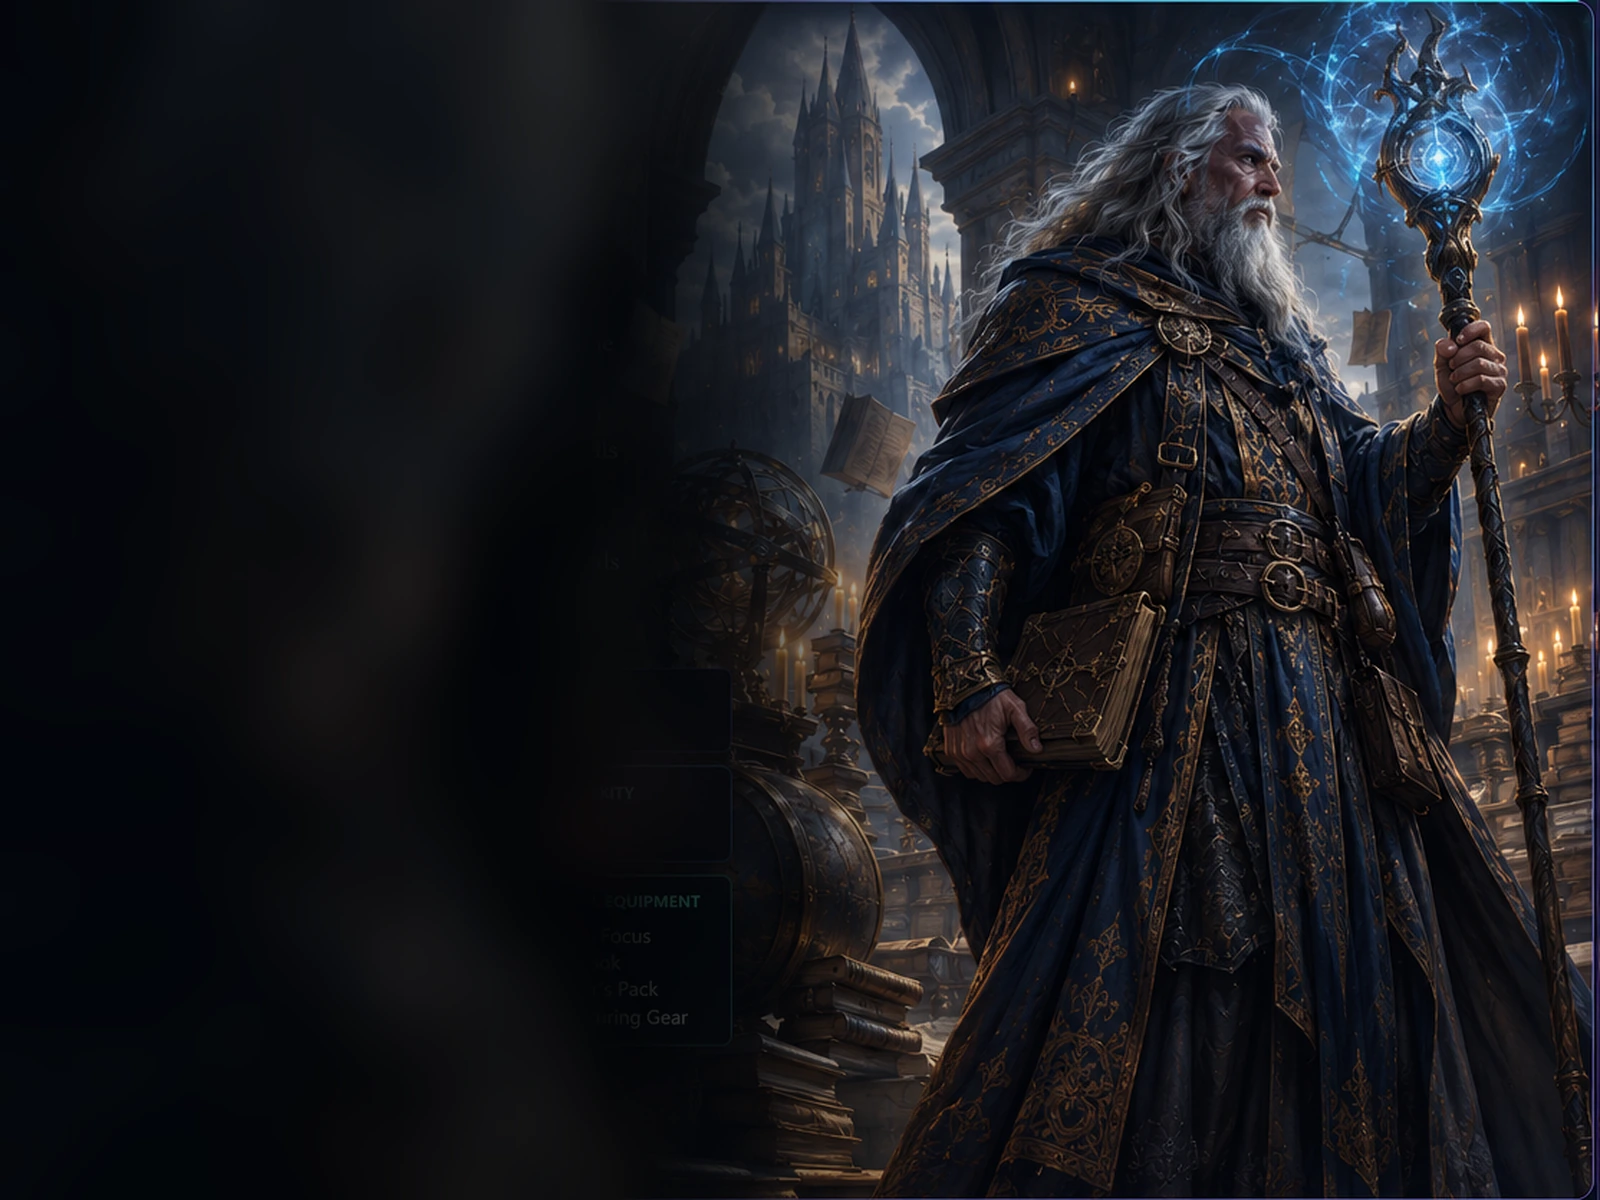
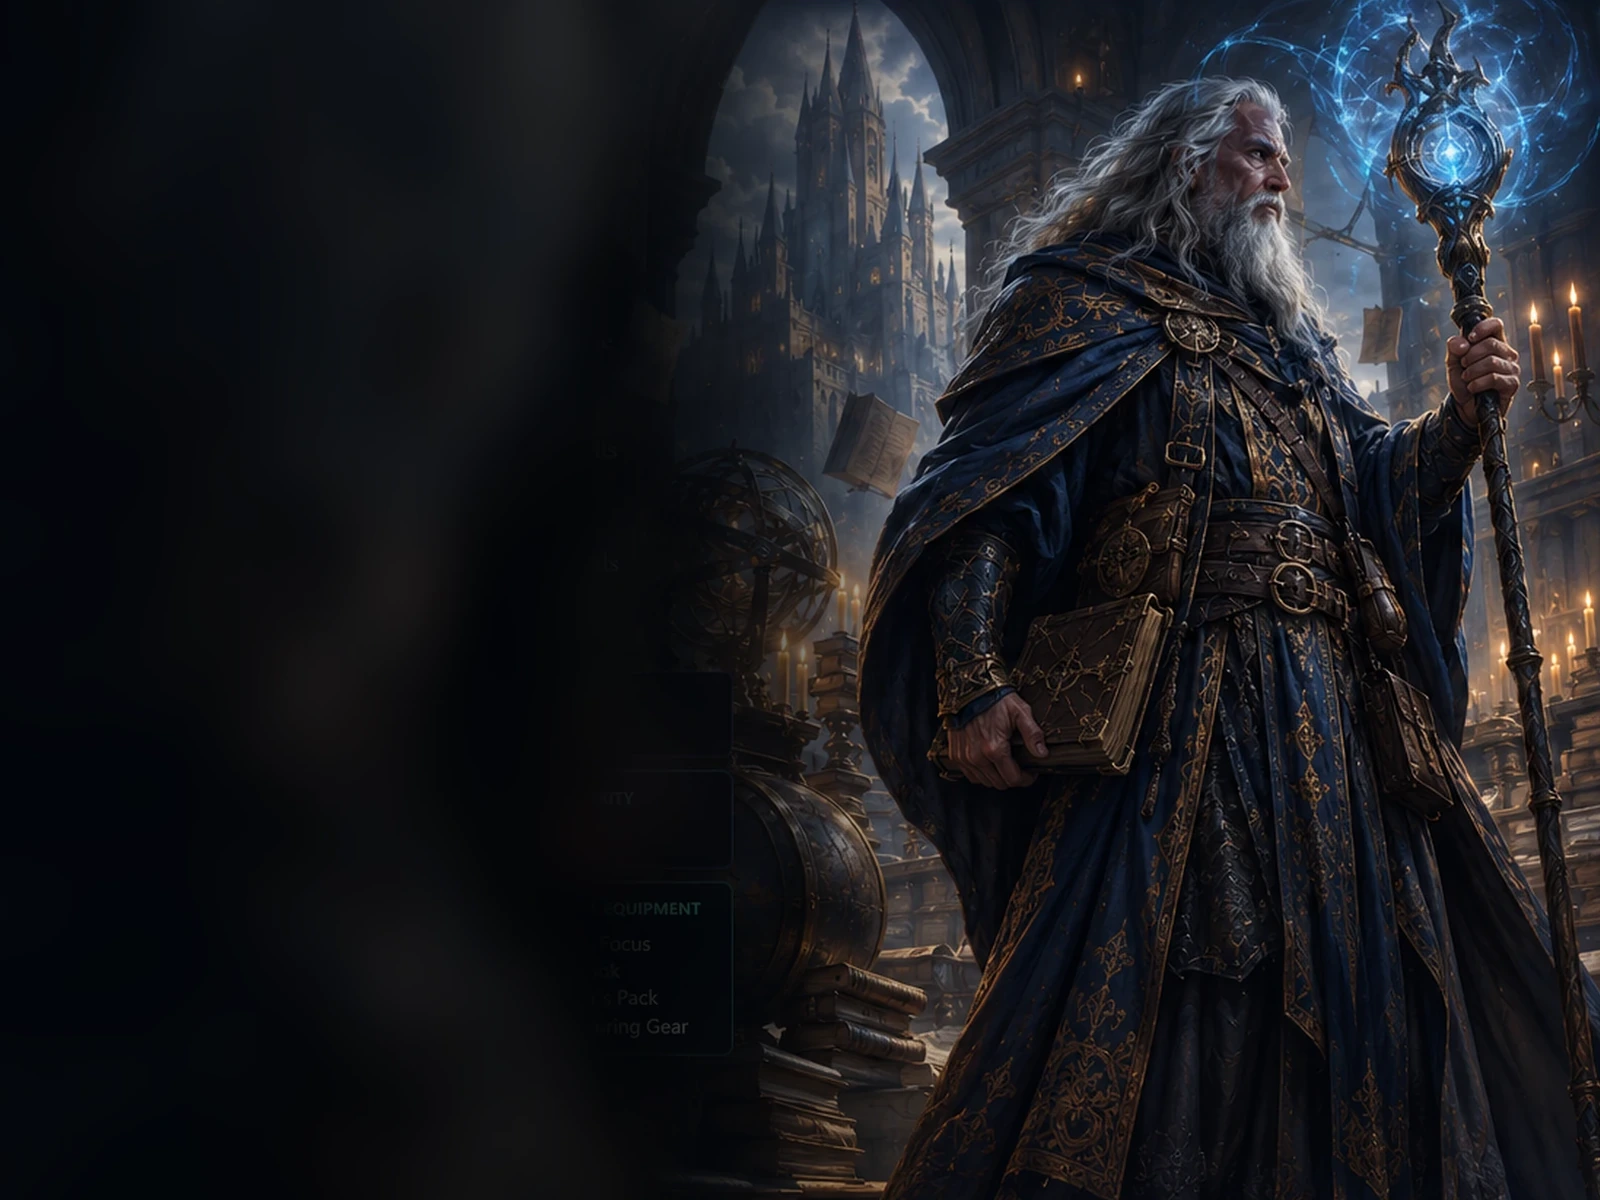
Polish Class hero corners and unique subclass artwork

diff --git a/components/ClassSubclassSection.js b/components/ClassSubclassSection.js
@@ -102,7 +102,6 @@ export default function ClassSubclassSection({
         <span className="class-subclass-two-column__head-icon" aria-hidden="true">✦</span>
         <div>
           <span>Choose your subclass</span>
-          <small>Select a subclass to add its features to progression. Click any row to show details in the movable Feature card.</small>
         </div>
         {selected ? <button type="button" className="class-subclass-two-column__collapse" onClick={() => setExpanded(false)} aria-label="Collapse subclass selector">⌃</button> : null}
       </div>
@@ -132,14 +131,13 @@ export default function ClassSubclassSection({
         </div>
       </div>
 
-      {required && !selected ? <p className="npc-forge-class-guide__requirement">Choose an eligible subclass before continuing.</p> : null}
-      {!required && entryLevel ? <p className="npc-forge-class-guide__subclass-level-note">You can review every subclass now. Selection unlocks at level {entryLevel}.</p> : null}
+      <span className="visually-hidden">{required && !selected ? "Choose an eligible subclass before continuing." : entryLevel ? `Subclass selection unlocks at level ${entryLevel}.` : ""}</span>
 
       <style jsx global>{`
-        .class-subclass-section.is-two-column{display:grid;gap:5px!important;padding:7px 8px 8px!important;border:1px solid rgba(var(--class-accent),.26)!important;border-radius:9px!important;background:linear-gradient(145deg,rgba(19,17,31,.74),rgba(6,12,21,.88))!important;box-shadow:0 8px 20px rgba(0,0,0,.1)}
+        .class-subclass-section.is-two-column{display:grid;gap:4px!important;padding:5px 6px 6px!important;border:1px solid rgba(var(--class-accent),.26)!important;border-radius:9px!important;background:linear-gradient(145deg,rgba(19,17,31,.74),rgba(6,12,21,.88))!important;box-shadow:0 8px 20px rgba(0,0,0,.1)}
         .class-subclass-section.is-two-column:not(.is-detailed){width:min(35%,430px);max-width:430px;align-self:start}
-        .class-subclass-two-column__head{display:grid;grid-template-columns:26px minmax(0,1fr) auto;align-items:center;gap:7px;padding:0 1px 5px;border-bottom:1px solid rgba(var(--class-accent),.15)}.class-subclass-two-column__head-icon{display:grid!important;place-items:center;width:24px;height:24px;border:1px solid rgba(var(--class-accent),.48);border-radius:6px;color:#d7b4ff!important;background:rgba(var(--class-accent),.09);font-size:.56rem!important}.class-subclass-two-column__head>div{display:grid;gap:1px;min-width:0}.class-subclass-two-column__head>div>span{color:#d4a8ff;font-family:Georgia,"Times New Roman",serif;font-size:.72rem;font-weight:650;letter-spacing:.025em;text-transform:uppercase}.class-subclass-two-column__head small{overflow:hidden;color:rgba(255,255,255,.5);font-size:.45rem;line-height:1.28;text-overflow:ellipsis;white-space:nowrap}.class-subclass-two-column__collapse{display:grid;place-items:center;width:24px;height:24px;padding:0;border:1px solid rgba(255,255,255,.13);border-radius:6px;color:rgba(255,255,255,.75);background:rgba(255,255,255,.03);font-size:.66rem;font-weight:900}.class-subclass-two-column__collapse:hover,.class-subclass-two-column__collapse:focus-visible{border-color:rgba(var(--class-secondary),.52);color:#fff;outline:none}
-        .class-subclass-two-column__scroll{max-height:166px;overflow-y:auto;overscroll-behavior:contain;padding:0 4px 0 0;scrollbar-gutter:stable}.class-subclass-two-column__grid{display:grid;grid-template-columns:repeat(2,minmax(0,1fr));grid-auto-rows:52px;gap:5px}
+        .class-subclass-two-column__head{display:grid;grid-template-columns:24px minmax(0,1fr) auto;align-items:center;gap:6px;padding:0 1px 3px;border-bottom:1px solid rgba(var(--class-accent),.15)}.class-subclass-two-column__head-icon{display:grid!important;place-items:center;width:22px;height:22px;border:1px solid rgba(var(--class-accent),.48);border-radius:6px;color:#d7b4ff!important;background:rgba(var(--class-accent),.09);font-size:.56rem!important}.class-subclass-two-column__head>div{display:grid;gap:1px;min-width:0}.class-subclass-two-column__head>div>span{color:#d4a8ff;font-family:Georgia,"Times New Roman",serif;font-size:.72rem;font-weight:650;letter-spacing:.025em;text-transform:uppercase}.class-subclass-two-column__head small{overflow:hidden;color:rgba(255,255,255,.5);font-size:.45rem;line-height:1.28;text-overflow:ellipsis;white-space:nowrap}.class-subclass-two-column__collapse{display:grid;place-items:center;width:24px;height:24px;padding:0;border:1px solid rgba(255,255,255,.13);border-radius:6px;color:rgba(255,255,255,.75);background:rgba(255,255,255,.03);font-size:.66rem;font-weight:900}.class-subclass-two-column__collapse:hover,.class-subclass-two-column__collapse:focus-visible{border-color:rgba(var(--class-secondary),.52);color:#fff;outline:none}
+        .class-subclass-two-column__scroll{max-height:166px;overflow-y:auto;overscroll-behavior:contain;padding:0 2px 0 0;scrollbar-gutter:auto}.class-subclass-two-column__grid{display:grid;grid-template-columns:repeat(2,minmax(0,1fr));grid-auto-rows:52px;gap:5px}
         .class-subclass-two-column__card{display:grid;grid-template-columns:76px minmax(0,1fr);gap:8px;align-items:center;min-width:0;min-height:52px;padding:4px 6px;border:1px solid rgba(255,255,255,.11);border-radius:7px;color:rgba(255,255,255,.8);background:linear-gradient(145deg,rgba(14,18,29,.95),rgba(7,11,19,.985));text-align:left;transition:border-color .15s ease,background .15s ease,box-shadow .15s ease}.class-subclass-two-column__card:hover,.class-subclass-two-column__card:focus-visible{border-color:rgba(var(--class-secondary),.48);background:linear-gradient(145deg,rgba(14,33,39,.5),rgba(8,13,22,.98));outline:none}.class-subclass-two-column__card.is-selected{border-color:rgba(var(--class-accent),.9);background:linear-gradient(145deg,rgba(var(--class-accent),.22),rgba(9,15,26,.98));box-shadow:inset 2px 0 rgb(var(--class-secondary)),0 0 14px rgba(var(--class-accent),.09)}.class-subclass-two-column__card.is-locked{opacity:.67}.class-subclass-two-column__card.is-locked:hover,.class-subclass-two-column__card.is-locked:focus-visible{opacity:1}
         .class-subclass-two-column__art{display:block;width:76px;height:40px;overflow:hidden;border:1px solid rgba(var(--class-accent),.32);border-radius:5px;background:#080c14}.class-subclass-two-column__art img{display:block;width:100%;height:100%;object-fit:cover;object-position:center;filter:saturate(.98) contrast(1.05)}.class-subclass-two-column__name{overflow:hidden;min-width:0;color:#f2eaf9;font-family:Georgia,"Times New Roman",serif;font-size:.64rem;font-weight:650;line-height:1.16;text-overflow:ellipsis;white-space:nowrap}
         .class-subclass-section.is-two-column .npc-forge-class-guide__requirement,.class-subclass-section.is-two-column .npc-forge-class-guide__subclass-level-note{padding:2px 2px 0!important;font-size:.44rem!important}

diff --git a/utils/classes/subclassArtwork.js b/utils/classes/subclassArtwork.js
@@ -5,23 +5,23 @@ const key = (value) => text(value).toLowerCase().replace(/[’']/g, "").replace(
 
 const WIZARD_SUBCLASS_ART_FAMILY = Object.freeze({
   abjuration: "abjuration",
-  abjurer: "abjuration",
-  bladesinger: "abjuration",
-  bladesinging: "abjuration",
+  abjurer: "abjurer",
+  bladesinger: "bladesinger",
+  bladesinging: "bladesinging",
+  chronurgy: "chronurgy",
   conjuration: "conjuration",
   divination: "divination",
-  diviner: "divination",
-  chronurgy: "divination",
-  scribes: "divination",
+  diviner: "diviner",
   enchantment: "enchantment",
   evocation: "evocation",
-  evoker: "evocation",
-  war: "evocation",
+  evoker: "evoker",
+  graviturgy: "graviturgy",
   illusion: "illusion",
-  illusionist: "illusion",
+  illusionist: "illusionist",
   necromancy: "necromancy",
+  scribes: "scribes",
   transmutation: "transmutation",
-  graviturgy: "transmutation",
+  war: "war",
 });
 
 export function subclassArtworkFor(classKey = "", option = {}) {

diff --git a/styles/character-forge-class-hero-framing.css b/styles/character-forge-class-hero-framing.css
@@ -54,6 +54,10 @@
     margin-right: -32px !important;
   }
 
+  .unified-player-character-forge .npc-forge-class-guide .npc-forge-class-guide__overview-book:has(.npc-forge-class-guide__hero-art img[src*="/media/classes/cinematic-"])::before {
+    content: none !important;
+  }
+
   .unified-player-character-forge .npc-forge-class-guide .npc-forge-class-guide__book-hero:has(.npc-forge-class-guide__hero-art img[src*="/media/classes/cinematic-"]) {
     position: static !important;
     grid-template-columns: minmax(0, 56%) minmax(0, 44%) !important;

diff --git a/docs/CHARACTER_FORGE_CLASS_SUBCLASS_SELECTOR_ARTWORK.md b/docs/CHARACTER_FORGE_CLASS_SUBCLASS_SELECTOR_ARTWORK.md
@@ -14,7 +14,7 @@ The approved target is the final compact two-column Wizard treatment reviewed on
 - at widths below 1100px it uses `width:min(42%,430px)` and below 900px it returns to full width;
 - the expanded selector remains internally scrollable for larger catalogues with a `166px` desktop viewport;
 - each visible choice button contains only the subclass artwork and subclass name; desktop cards are 52px tall with 76×40 artwork, so exactly six choices (2 columns × 3 rows) are visible before scrolling;
-- source badges, inline descriptions, level badges, status/check circles, and other visible metadata are intentionally omitted from choice buttons;
+- source badges, inline descriptions, level badges, status/check circles, visible helper copy, and footer notes are intentionally omitted from the selector; eligibility guidance remains available to assistive technology;
 - selected state is communicated by the existing border/background highlight rather than an extra visible status control;
 - every canonical subclass remains present even when the reference mockup visually depicts fewer rows;
 - selecting an eligible subclass still uses the existing Forge authority, updates progression, and collapses the selector;
@@ -32,18 +32,9 @@ Subclass artwork is not stored in Supabase. A schema inspection on 2026-09-06 co
 
 ### Wizard first artwork set
 
-The first approved thumbnail set was derived from the exact Wizard mockup accepted by browser review and installed as eight 240×112 WebPs:
+Wizard now uses one distinct 240×112 presentation asset for every canonical subclass exposed by the current catalogue: Abjuration, Abjurer, Bladesinger, Bladesinging, Chronurgy, Conjuration, Divination, Diviner, Enchantment, Evocation, Evoker, Graviturgy, Illusion, Illusionist, Necromancy, Scribes, Transmutation, and War. Files follow `/media/subclasses/wizard/wizard-<normalized-subclass>.webp`.
 
-- `/media/subclasses/wizard/wizard-abjuration.webp`
-- `/media/subclasses/wizard/wizard-conjuration.webp`
-- `/media/subclasses/wizard/wizard-divination.webp`
-- `/media/subclasses/wizard/wizard-enchantment.webp`
-- `/media/subclasses/wizard/wizard-evocation.webp`
-- `/media/subclasses/wizard/wizard-illusion.webp`
-- `/media/subclasses/wizard/wizard-necromancy.webp`
-- `/media/subclasses/wizard/wizard-transmutation.webp`
-
-Closely related Wizard traditions may share the nearest approved visual family until dedicated artwork is explicitly reviewed. Examples: Evoker uses Evocation, Abjurer uses Abjuration, Illusionist uses Illusion, Diviner/Chronurgy/Scribes use Divination, Bladesinger/Bladesinging use the Abjuration-family thumbnail, War uses the Evocation-family thumbnail, and Graviturgy uses the Transmutation-family thumbnail. This mapping is visual only and does not merge, rename, or alter subclass rules/content.
+These images remain presentation-only. Similar traditions may share visual motifs, but they must not resolve to the same file. The resolver maps each current canonical normalized subclass name to its own asset and falls back to Class menu artwork only for genuinely unmapped or missing future subclasses.
 
 The WebPs were transferred through the standing DNDNext binary route: local approved assets → checksum ZIP → Dropbox `/DNDNext-Transfer` → guarded one-shot GitHub Actions materializer → scratch branch. Do not regress to giant inline-base64 transfers.
 
@@ -67,7 +58,7 @@ The selector and art are intentionally decoupled:
 
 - public cinematic art remains viewport-height-derived and content-height independent;
 - expanding/collapsing the subclass selector must not move, resize, or recrop it;
-- on desktop the cinematic layer spans the full Class Overview width from `left: 0` through the right edge, and the Overview card consumes the Class guide's 8px top/right padding (`margin-top:-8px`, `margin-right:-32px`, `width:calc(100% + 32px)`) so the painting reaches the outer workspace edge;
+- on desktop the cinematic layer spans the full Class Overview width from `left: 0` through the right edge, and the Overview card consumes the Class guide's 8px top/right padding (`margin-top:-8px`, `margin-right:-32px`, `width:calc(100% + 32px)`) so the painting reaches the outer workspace edge; for cinematic heroes the older inset `::before` frame is suppressed so artwork reaches the actual card corners;
 - the artwork begins beside and underneath the Class description;
 - a stronger left-to-right readability gradient fades the art behind the Class title, description, and fact boxes while preserving the unobstructed subject on the right;
 - the stable art layer remains `height: clamp(780px, 82vh, 960px)` with `object-position: 100% 0%`.
@@ -84,7 +75,7 @@ Before this selector/artwork pass is accepted or extended:
 6. the expanded selector remains a two-column internal scroll region at the approved compact desktop width;
 7. each visible subclass choice contains only artwork and subclass name;
 8. the selected collapsed row retains its artwork/name and Change control;
-9. missing subclass images fall back to Class menu artwork rather than breaking the selector;
+9. every currently canonical Wizard subclass resolves to a distinct artwork file; genuinely unmapped or missing future subclass images fall back to Class menu artwork rather than breaking the selector;
 10. all nine spell-slot columns remain visible/scrollable;
 11. expanding/collapsing the selector does not alter cinematic art framing;
 12. the public cinematic layer begins at the left edge and uses a readability fade beneath Class copy;
